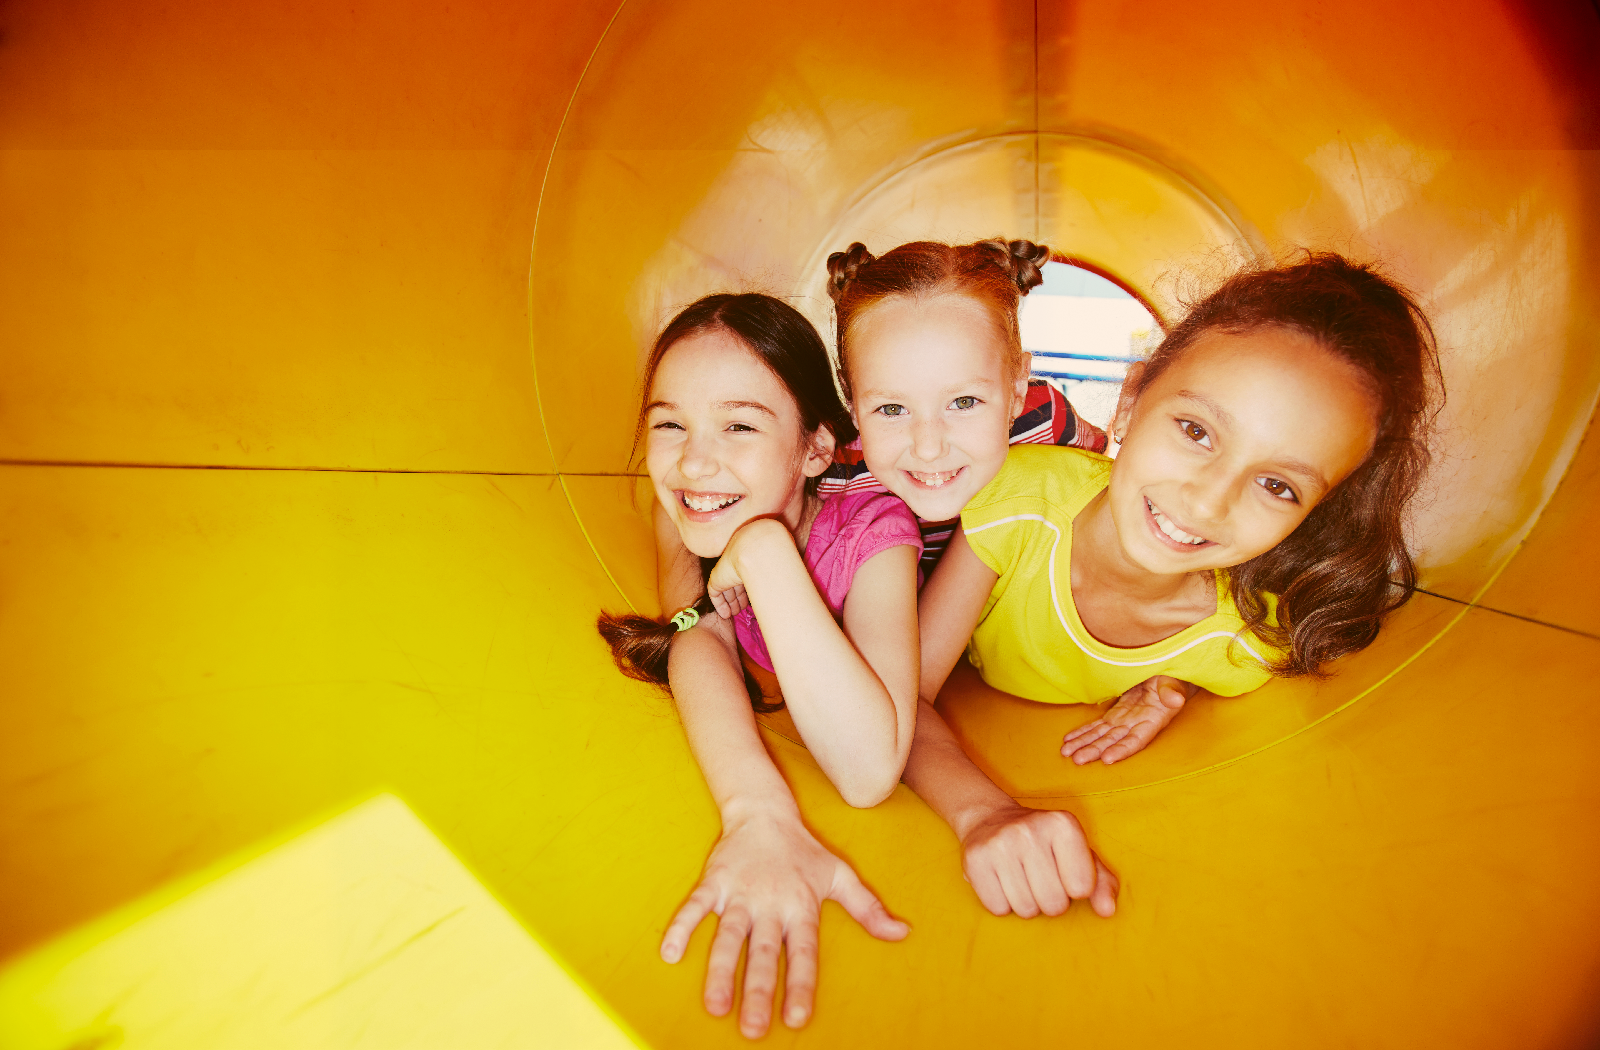
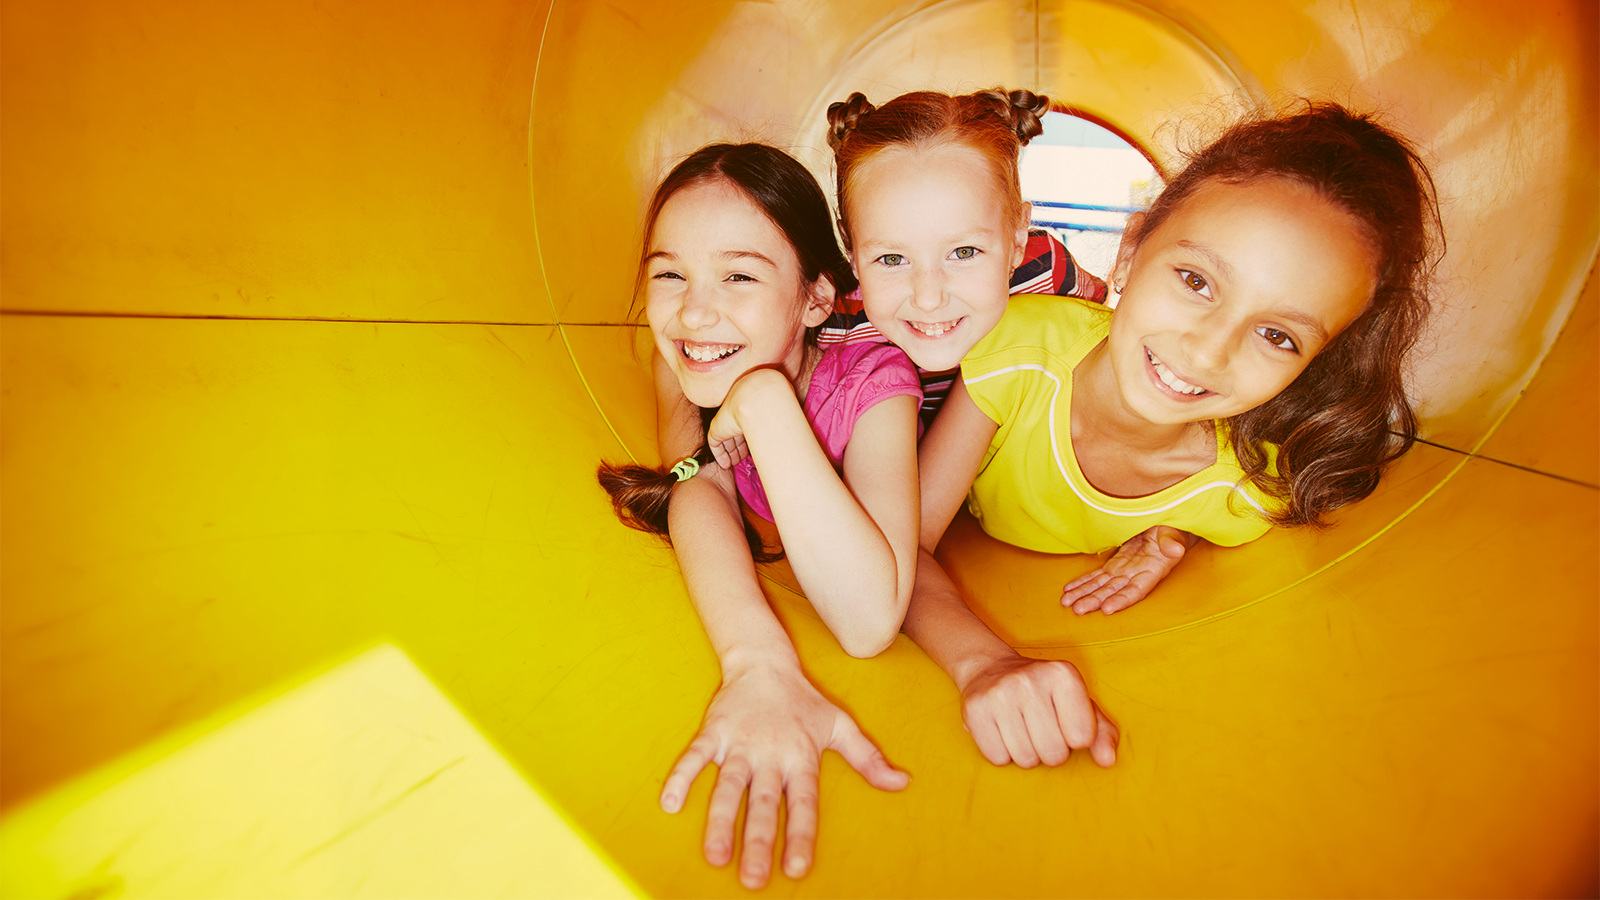
content/minor changes
team container added
projects container added (empty atm)
minor changes with :after :before pseudoel'ts and animations

diff --git a/cetap/css/style.css b/cetap/css/style.css
@@ -5,6 +5,12 @@
 body{
 	background-color: #fff;
 }
+p{
+	cursor: default;
+}
+span{
+	cursor: default;
+}
 .head-wrap{
 	width: 1170px;
 	margin: 0 auto;
@@ -37,18 +43,24 @@ body{
 	font-size: 15px;
 	font-weight: 600;
 	color: #515755;
-	transition: .5s ease-in-out;
 	position: relative;
 }
 .navbar a:hover{
 	color: #16211e;
 }
+.navbar a:before{
+	content: "";
+	opacity: 0;
+	visibility: hidden;
+	transition: .5s ease-in-out;
+}
 .navbar a:hover:before{
 	content: "";
+	opacity: 1;
+	visibility: visible;
 	position: absolute;
 	left: -20px;
 	top: 2px;
-	display: block;
 	width: 15px;
 	height: 15px;
 	background-image: url(../img/pointer.png);
@@ -58,7 +70,9 @@ body{
 	width: 100%;
 }
 .pic-container img{
+	display: block;
 	min-width: 100%;
+	height: 800px;
 }
 .pic-after{
 	text-transform: uppercase;
@@ -113,24 +127,53 @@ body{
 .container{
 	text-align: center;
 }
+.container img{
+	display: block;
+	margin: 0 auto;
+}
 .container>h2{
+	display: inline-block;
 	font-family: 'open sans regular', sans-serif;
 	font-size: 24px;	
 	text-transform: uppercase;
 	position: relative;
 	cursor: default;
 }
+.container h2:before{
+	content: "";
+	opacity: 0;
+	visibility: hidden;
+}
 .container h2:hover:before{
 	content: "";
 	position: absolute;
-	left: 25%;
+	left: -20px;
 	bottom: 25%;
-	display: block;
+	opacity: 1;
+	visibility: visible;
 	width: 15px;
 	height: 15px;
-	line-height: 15px;
 	background-image: url(../img/pointer.png);
 	background-repeat: no-repeat;
+	transition: .5s ease-in-out;
+}
+.container h2:after{
+	content: "";
+	opacity: 0;
+	visibility: hidden;
+}
+.container h2:hover:after{
+	content: "";
+	position: absolute;
+	right: -20px;
+	bottom: 25%;
+	opacity: 1;
+	visibility: visible;
+	width: 15px;
+	height: 15px;
+	background-image: url(../img/pointer.png);
+	background-repeat: no-repeat;
+	transition: .5s ease-in-out;
 }
 .container p{
 	font-family: 'lato regular', sans-serif;
@@ -138,4 +181,142 @@ body{
 	font-weight: 500;
 	color: #515755;
 	cursor: default;
+}
+.team-wrap{
+	margin-top: 90px;
+	min-width: 100%;
+	height: 564px;
+	background-color: #ff9b2e;
+}
+.team-container{
+	width: 950px;
+	margin: 0 auto;
+	padding: 0px 150px;
+}
+.team-header{
+	padding-top: 70px;
+	text-align: center;
+	color: #fff;
+	font-family: 'open sans regular', sans-serif;
+	font-size: 24px;
+	text-transform: uppercase;
+}
+.team-header p{
+	display: inline-block;
+	position: relative;
+}
+.team-header p:before{
+	content: "";
+	position: absolute;
+	left: -10px;
+	bottom: 35%;
+	height: 7px;
+	width: 7px;
+	background-image: url('../img/pointer2.png');
+	background-repeat: no-repeat;
+}
+.team-header p:after{
+	content: "";
+	position: absolute;
+	right: -10px;
+	bottom: 35%;
+	height: 7px;
+	width: 7px;
+	background-image: url('../img/pointer2.png');
+	background-repeat: no-repeat;
+}
+.team-body{
+	margin-top: 70px;
+}
+.team-body-pic-cont{
+	float: left;
+}
+.team-body-pic-cont img{
+	display: block;
+	height: 250px;
+	width: 250px;
+}
+.team-info1, .team-info2, .team-contact{
+	margin-left: 325px;
+}
+.team-info1{
+	font-family: 'open sans regular', sans-serif;
+	font-size: 16px;
+}
+.team-info1 p:first-child{
+	font-weight: 600;
+	color: #fff;
+}
+.team-info1 p:last-child{
+	font-size: 14px;
+	font-weight: normal;
+	font-style: italic;
+	opacity: .5;
+	word-spacing: 3px;
+}
+.team-info2{
+	margin-top: 40px;
+	font-family: 'open sans regular', sans-serif;
+	font-size: 15px;
+	color: #fff;
+}
+.team-contact{
+	margin-top: 30px;
+}
+.team-contact a{
+	float: left;
+	margin-left: 10px;
+	display: block;
+}
+.team-contact a:first-child{
+	margin-left: auto;
+}
+.fb{
+	background-image: url('../img/facebook.png');
+	height: 30px;
+	width: 30px;
+	transition: .3s ease-in-out;
+}
+.fb:hover{
+	height: 30px;
+	width: 30px;
+	background-image: url('../img/facebookh.png');
+}
+.tw{
+	background-image: url('../img/twitter.png');
+	height: 30px;
+	width: 30px;
+	transition: .3s ease-in-out;
+}
+.tw:hover{
+	height: 30px;
+	width: 30px;
+	background-image: url('../img/twitterh.png');
+}
+.gp{
+	background-image: url('../img/google.png');
+	height: 30px;
+	width: 30px;
+	transition: .3s ease-in-out;
+}
+.gp:hover{
+	height: 30px;
+	width: 30px;
+	background-image: url('../img/googleh.png');
+}
+.proj-wrap{
+	margin-top: 70px;
+}
+.proj-container{
+	width: 950px;
+	margin: 0 auto;
+	margin-top: 70px;
+	padding: 0px 150px;
+}
+.showcase1{
+	margin: 0 auto;
+	border-radius: 150px;
+	width: 300px;
+	height: 300px;
+	background-color: #ff9b2e;
 }

diff --git a/cetap/index.htm b/cetap/index.htm
@@ -26,7 +26,7 @@
 			<img src="img/banner.png" alt="bannerpic">
 		</div>
 		<div class="pic-after">
-			<span>Neque</span><span>porro</span>
+			<span>мы</span><span>предлагаем</span>
 		</div>
 	</div>
 	<div class="content-wrap">
@@ -51,6 +51,40 @@
 			<p>Lorem ipsum dolor sit amet, consectetur adipisicing elit. Praesentium beatae vel nobis, magni numquam provident.</p>
 		</div>
 	</div>
+	<div class="team-wrap">
+		<div class="team-container">
+			<div class="team-header">
+				<p>наша команда</p>
+			</div>
+			<div class="team-body">
+				<div class="team-body-pic-cont">
+					<img src="img/photo1.png" alt="photo">
+				</div>
+				<div class="team-info1">
+					<p>Роман Барыбин</p>
+					<p>CEO, CetAp/Kharkov</p>
+				</div>
+				<div class="team-info2">
+					Lorem ipsum dolor sit amet, consectetur adipisicing elit. Alias ex, sint! Fugit doloremque hic deserunt! Eaque vero consequatur blanditiis saepe illum, corrupti tempore, assumenda vitae rerum! Id expedita incidunt, ut, vel soluta harum! Incidunt, et qui possimus enim non iste! Lorem ipsum dolor sit amet, consectetur adipisicing elit. Sed, consequuntur! Lorem ipsum dolor sit amet, consectetur adipisicing elit. Quas, neque.
+				</div>
+				<div class="team-contact">
+					<a href="#" class="fb"></a>
+					<a href="#" class="tw"></a>
+					<a href="#" class="gp"></a>
+				</div>
+			</div>
+		</div>
+	</div>
+	<div class="proj-wrap">
+		<div class="pic-after">
+			<span>наши</span><span>проекты</span>
+		</div>
+		<div class="proj-container">
+			<div class="showcase1">
+				
+			</div>
+		</div>
+	</div>
 	<br>
 	<br>
 	<br>
@@ -58,6 +92,5 @@
 	<br>
 	<br>
 	<br>
-	<script> </script>
 </body>
 </html>
